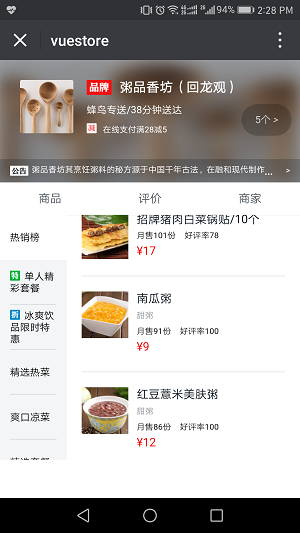
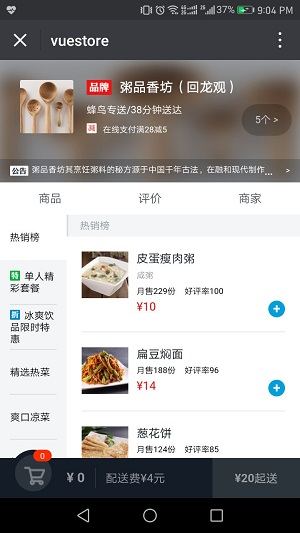
'update'

diff --git a/src/components/cartctrl/cartctrl.vue b/src/components/cartctrl/cartctrl.vue
@@ -1,16 +1,18 @@
 <template>
 	<div class="cartctrl">
-		<div class="decrease btn" v-show="food.count > 0">
-			<span class="btn-content">-</span>
+		<div class="decrease btn" v-show="food.count > 0" transition="move">
+			<span class="btn-content" @click="decreaseCount">-</span>
 		</div>
-		<div class="count btn" v-show="food.count > 0">{{food.count}}</div>
-		<div class="increase">
+		<div class="count" v-show="food.count > 0">{{food.count}}</div>
+		<div class="increase btn" @click="increaseCount">
 			<span class="btn-content">+</span>
 		</div>
 	</div>
 </template>
 
 <script>
+	import Vue from 'vue'
+
 	export default {
 		props : {
 			food : {
@@ -18,7 +20,19 @@
 			}
 		},
 		created () {
-			console.log(this.food)
+
+		},
+		methods : {
+			increaseCount : function () {
+				if (!this.food.count) {
+					Vue.set(this.food, 'count', 1)
+				} else {
+					this.food.count ++
+				}
+			},
+			decreaseCount : function () {
+				this.food.count --
+			}
 		}
 	}
 </script>
@@ -30,10 +44,31 @@
 		font-size: 0
 		.btn
 			display: inline-block
+			width: 20px
+			height: 20px
+			border-radius: 10px
+			background: #00A0DC
+			text-align: center
+			line-height: 20px
 			.btn-content
+				color: #fff
+				font-weight: 700
+				font-size: 16px
 		.decrease
+			font-size: 12px
+			transition: all 0.4s linear
+			&.move-transition
+				opacity: 1
+				transform: translate3D(0, 0, 0,)
+			&.move-enter,&.move-leave
+				opacity: 0
+				transform: translate3D(24px, 0, 0)
 		.count
 			display: inline-block
+			width: 20px
+			text-align:center
+			color: #969A9D
+			font-size: 12px
 		.increate
-
+			font-size: 12px
 </style>

diff --git a/src/components/goods/goods.vue b/src/components/goods/goods.vue
@@ -37,7 +37,7 @@
 				</li>
 			</ul>
 		</div>
-		<shopcart :delivery-price="seller.deliveryPrice" :min-price="seller.minPrice"></shopcart>
+		<shopcart :selectedFoods="selectedFoods" :delivery-price="seller.deliveryPrice" :min-price="seller.minPrice"></shopcart>
 	</div>
 </template>
 
@@ -71,6 +71,17 @@
 					}
 				}
 				return 0
+			},
+			selectedFoods : function () {
+				var foods = []
+				this.goods.forEach((good) => {
+					good.foods.forEach((food) => {
+						if (food.count > 0) {
+							foods.puah(food)
+						}
+					})
+				})
+				return foods
 			}
     },
 		created () {
@@ -92,6 +103,7 @@
 					click : true
 				})
 				this.goodsScroll = new BScroll(this.$refs.goodswrapper, {
+					click : true,
 					probeType : 3
 				})
 				this.goodsScroll.on('scroll', (pos) => {
@@ -230,4 +242,10 @@
 										text-decoration: line-through
 										font-size: 10px;
 										color: rgb(147,153,159)
+								.cartwrap
+									position: absolute
+									bottom: 18px
+									right: 0px
+									text-align: right
+
 </style>
